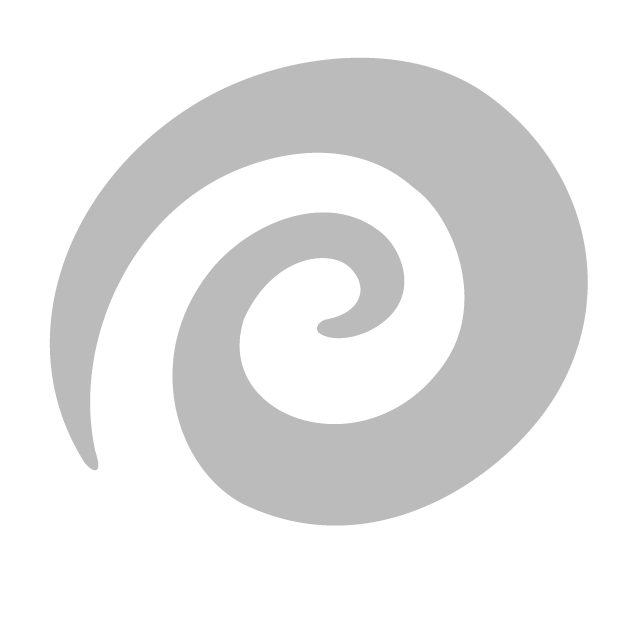
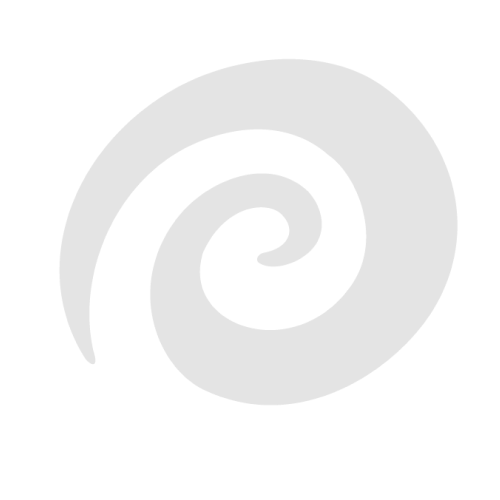
change images and title

diff --git a/public/index.html b/public/index.html
@@ -22,7 +22,7 @@
       work correctly both with client-side routing and a non-root public URL.
       Learn how to configure a non-root public URL by running `npm run build`.
     -->
-    <title>React App</title>
+    <title>Подбиратор рецептов</title>
   </head>
   <body>
     <noscript>You need to enable JavaScript to run this app.</noscript>
